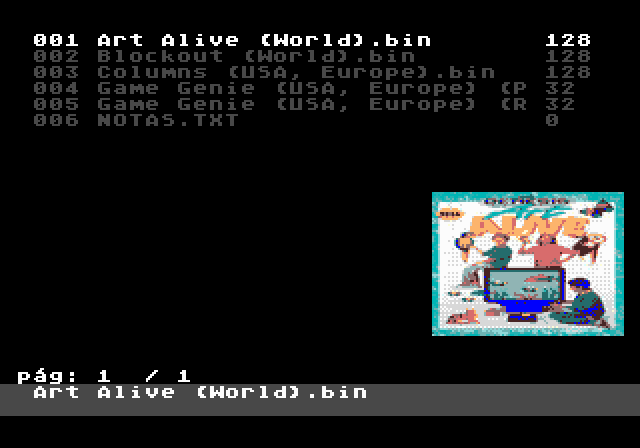
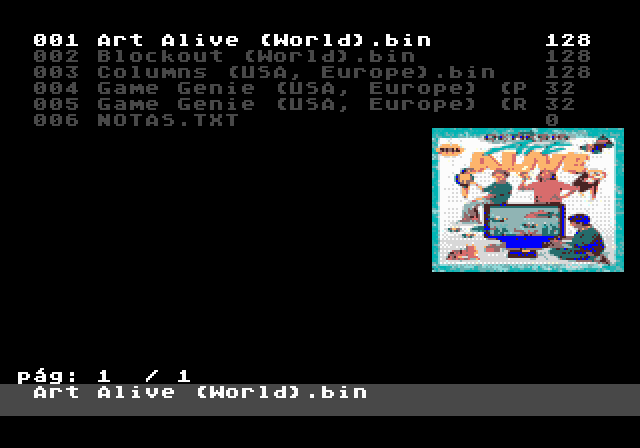
v1: capa da lista no centro à direita e espera 20% menor
- caixa da capa em posição fixa (linhas 8-16, colunas 27-38)
- PREVIEW_DELAY 24 -> 19 quadros (~0,32 s NTSC)
- screenshots, README e CHANGELOG atualizados

Changed region(s): [[0.6562, 0.2812, 1.0, 0.75]]

diff --git a/v1mod/mod.c b/v1mod/mod.c
@@ -55,9 +55,9 @@ static u8 gSector0[512] __attribute__((aligned(4)));   /* SD/OS routines access 
 static u8 gArtBuf[512] __attribute__((aligned(4)));
 static u32 gArtHash;
 static u8 gArtCache;                    /* 0 none, 1 = art of gArtHash is in VRAM, 2 = it has no art */
-static u8 gPrevTop;
+#define PREV_TOP 8                       /* cover box: rows 8..16 (middle of the list), cols 27..38 */
 
-#define PREVIEW_DELAY 24                /* frames resting on a ROM before its cover loads (~0.4 s) */
+#define PREVIEW_DELAY 19                /* frames resting on a ROM before its cover loads (~0.32 s) */
 
 extern void ramToolbox(void);           /* RAM trampoline (hooks.S) */
 extern const u8 ramStubStart[], ramStubEnd[];
@@ -599,9 +599,8 @@ static int preview(u16 idx)
     memcpy(&gCur, RECCACHE + slot * 0x110, sizeof(Rec));
     if (gCur.isdir || !isRom(gCur.name) || !loadArt(1) || !gArtOk || PAD)
         return 0;
-    gPrevTop = slot < 10 ? 12 : 2;      /* list rows are 2..22; keep the cursor row visible */
-    osFill(PLANE_A, 0, 26, gPrevTop, 13, 9);
-    osFillSeq(PLANE_A, PAL3 | 0x80, 27, gPrevTop, 12, 9);
+    osFill(PLANE_A, 0, 26, PREV_TOP, 13, 9);
+    osFillSeq(PLANE_A, PAL3 | 0x80, 27, PREV_TOP, 12, 9);
     return 1;
 }
 
@@ -617,7 +616,7 @@ void browserIdle(u32 idx)
         drawn = preview((u16)idx);
     }
     if (drawn)
-        osFill(PLANE_A, 0, 26, gPrevTop, 13, 9);
+        osFill(PLANE_A, 0, 26, PREV_TOP, 13, 9);
 }
 
 static void overlayFile(void)

diff --git a/README.md b/README.md
@@ -8,7 +8,7 @@ no Brasil e no exterior. Feito para o **Grupo RetroGamer Poa** por **Antonio e t
 
 | Cartucho | Arquivo | Base | SHA-256 |
 |---|---|---|---|
[3 lines of base64/hex data omitted]
 
 > ⚠ Projeto independente, sem relação com a Krikzz. O EverDrive e o OS original são obra de
@@ -52,7 +52,7 @@ checksum, então o cartucho não fica "brickado".
 ### Controles no navegador de jogos
 | Botão | Ação |
 |---|---|
-| Cima / Baixo | move o cursor (parado ~0,4 s sobre uma ROM, a capa aparece ao lado) |
+| Cima / Baixo | move o cursor (parado ~0,3 s sobre uma ROM, a capa aparece no centro à direita) |
 | Esquerda / Direita | troca de página |
 | **START** | carrega e joga na hora |
 | **A** | numa pasta: entra; num jogo: abre o **menu do jogo** com a capa |

diff --git a/CHANGELOG.md b/CHANGELOG.md
@@ -5,6 +5,10 @@
 
 ## EverDrive-MD v1 — `OS-V38-PTBR.BIN`
 
+### 1.3 — 2026-10-18
+- Capa da lista agora fica em posição fixa, no centro da lateral direita.
+- Espera para a capa aparecer reduzida em 20% (24 → 19 quadros, ~0,32 s em NTSC).
+
 ### 1.2 — 2026-10-18
 - **Capa na lista de jogos:** ao parar ~0,4 s sobre uma ROM em "Selecionar jogo", a capa aparece
   ao lado da lista. Rolar rápido não carrega nada; qualquer botão some com a capa e cancela a leitura.
